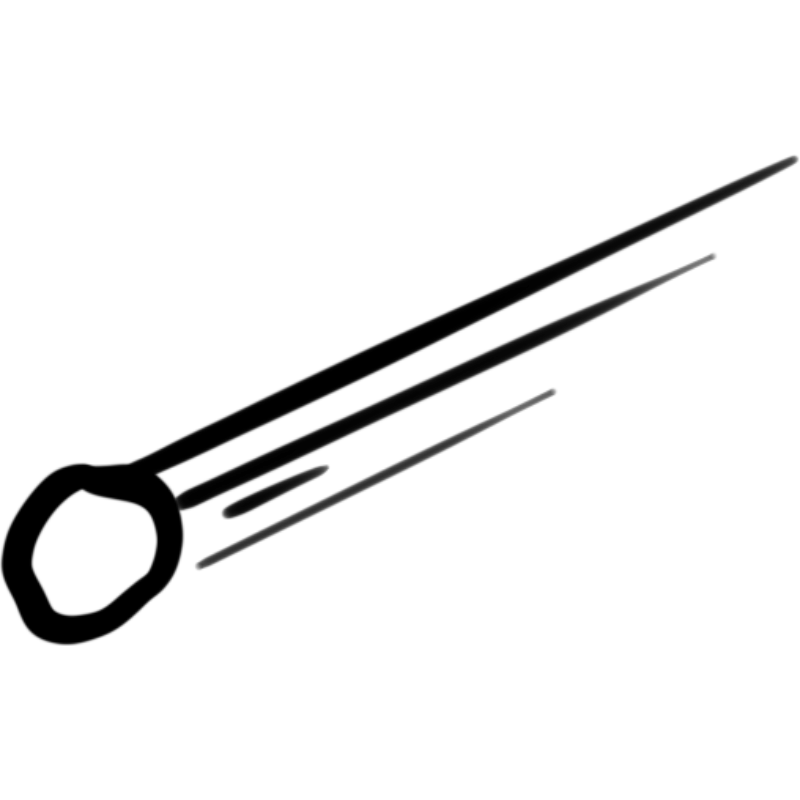
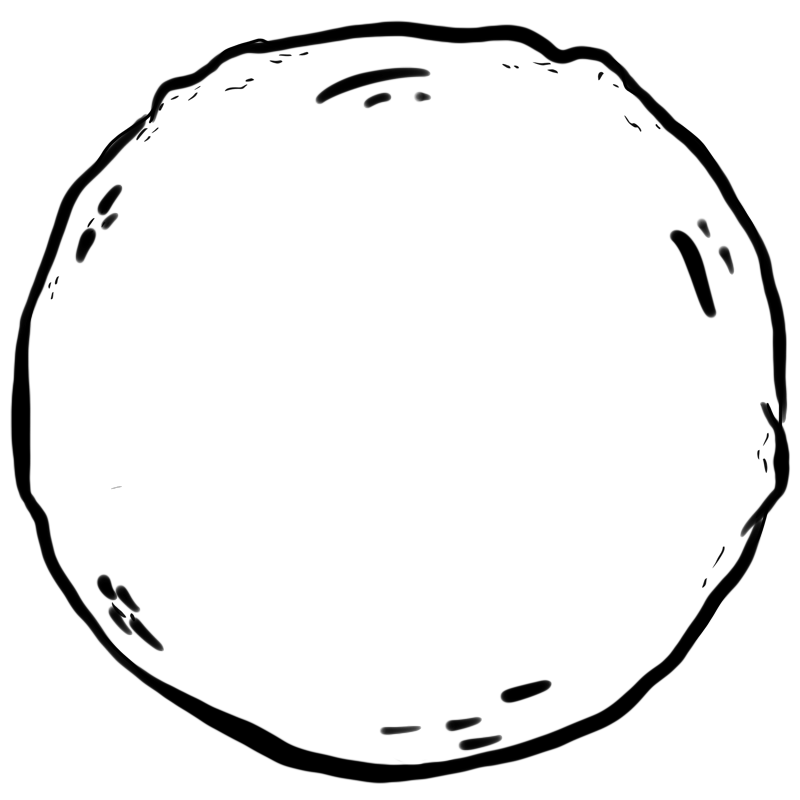
splash screen

Changed region(s): [[0.0, 0.0, 1.0, 1.0], [0.625, 0.8438, 0.6875, 0.875]]

diff --git a/components/SplashScreen.tsx b/components/SplashScreen.tsx
@@ -1,0 +1,115 @@
+'use client';
+
+import { motion, useReducedMotion } from 'framer-motion';
+import { useEffect, useState } from 'react';
+import styles from './SplashScreen.module.css';
+
+const LINE1 = "hi, i'm jonathan.";
+const LINE2 = 'welcome to my little world :)';
+const CHAR_INTERVAL_MS = 55;
+
+type Phase =
+  | 'initial-blink'
+  | 'typing-line1'
+  | 'pause-line1'
+  | 'typing-line2'
+  | 'pause-line2'
+  | 'wiping';
+
+const PAUSE_STEPS: Partial<Record<Phase, { ms: number; next: Phase }>> = {
+  'initial-blink': { ms: 600, next: 'typing-line1' },
+  'pause-line1':   { ms: 300, next: 'typing-line2' },
+  'pause-line2':   { ms: 700, next: 'wiping'       },
+};
+
+function useTypewriterSequence(skip: boolean) {
+  const [phase, setPhase] = useState<Phase>('initial-blink');
+  const [line1, setLine1] = useState('');
+  const [line2, setLine2] = useState('');
+
+  useEffect(() => {
+    if (skip) {
+      setLine1(LINE1);
+      setLine2(LINE2);
+      setPhase('wiping');
+      return;
+    }
+
+    const pause = PAUSE_STEPS[phase];
+    if (pause) {
+      const id = setTimeout(() => setPhase(pause.next), pause.ms);
+      return () => clearTimeout(id);
+    }
+
+    if (phase === 'typing-line1' || phase === 'typing-line2') {
+      const target = phase === 'typing-line1' ? LINE1 : LINE2;
+      const setter = phase === 'typing-line1' ? setLine1 : setLine2;
+      const next: Phase = phase === 'typing-line1' ? 'pause-line1' : 'pause-line2';
+
+      let i = 0;
+      const id = setInterval(() => {
+        i += 1;
+        setter(target.slice(0, i));
+        if (i >= target.length) {
+          clearInterval(id);
+          setPhase(next);
+        }
+      }, CHAR_INTERVAL_MS);
+      return () => clearInterval(id);
+    }
+  }, [phase, skip]);
+
+  // null = cursor hidden (during wipe); 1 or 2 = which line shows the cursor
+  const cursorLine: 1 | 2 | null =
+    phase === 'wiping' ? null
+    : phase === 'typing-line2' || phase === 'pause-line2' ? 2
+    : 1;
+
+  return { line1, line2, cursorLine };
+}
+
+const WIPE_TRANSITION = {
+  duration: 0.55,
+  ease: [0.4, 0, 0.2, 1] as const,
+};
+
+const WIPE_VARIANTS = {
+  visible: { y: '0%' },
+  hidden:  { y: '-100%', transition: WIPE_TRANSITION },
+};
+
+type SplashScreenProps = { onDone: () => void };
+
+export default function SplashScreen({ onDone }: SplashScreenProps) {
+  const skip = useReducedMotion() ?? false;
+  const { line1, line2, cursorLine } = useTypewriterSequence(skip);
+
+  // Derive animate target from cursorLine: once it goes null the wipe has fired
+  const isWiping = cursorLine === null;
+
+  return (
+    <motion.div
+      animate={isWiping ? 'hidden' : 'visible'}
+      className={styles.overlay}
+      initial="visible"
+      variants={skip ? undefined : WIPE_VARIANTS}
+      onAnimationComplete={(def) => {
+        if (def === 'hidden') onDone();
+      }}
+    >
+      <div className={styles.content}>
+        {([
+          { text: line1, line: 1 as const },
+          { text: line2, line: 2 as const },
+        ]).map(({ text, line }) => (
+          <span className={styles.line} key={line}>
+            <span className={styles.text}>
+              {text}
+              {cursorLine === line && <span className={styles.cursor} />}
+            </span>
+          </span>
+        ))}
+      </div>
+    </motion.div>
+  );
+}

diff --git a/components/SplashScreen.module.css b/components/SplashScreen.module.css
@@ -1,0 +1,69 @@
+.overlay {
+  position: fixed;
+  inset: 0;
+  z-index: 100;
+  display: flex;
+  align-items: flex-end;
+  background: #f5f5f5;
+  pointer-events: all;
+}
+
+.content {
+  padding: 0 0 14vh 10vw;
+  width: 100%;
+}
+
+.line {
+  display: block;
+}
+
+.line + .line {
+  margin-top: 1.4em;
+}
+
+.text {
+  font-family: 'Roboto Mono', monospace;
+  font-size: clamp(1.6rem, 3.2vw, 2.6rem);
+  font-weight: 400;
+  color: #3e3e3e;
+  letter-spacing: 0.01em;
+  line-height: 1.5;
+  white-space: nowrap;
+}
+
+/* Cursor lives inside .text so 1em = the text's own font size at every breakpoint */
+.cursor {
+  display: inline-block;
+  width: 2px;
+  height: 0.9em;
+  background: #3e3e3e;
+  vertical-align: text-bottom;
+  margin-left: 2px;
+  animation: blink 0.7s step-end infinite;
+}
+
+@keyframes blink {
+  0%, 100% { opacity: 1; }
+  50%       { opacity: 0; }
+}
+
+@media (max-width: 700px) {
+  .content {
+    padding: 0 0 10vh 5vw;
+  }
+
+  .text {
+    font-size: clamp(0.95rem, 4.5vw, 1.35rem);
+  }
+
+  .line + .line {
+    margin-top: 1.2em;
+  }
+}
+
+@media (prefers-reduced-motion: reduce) {
+  .cursor {
+    animation: none;
+    opacity: 1;
+  }
+}

diff --git a/app/page.tsx b/app/page.tsx
@@ -1,11 +1,21 @@
+'use client';
+
+import { useState } from 'react';
 import HomeScrollLock from '@/components/HomeScrollLock';
+import SplashScreen from '@/components/SplashScreen';
 import PlanetNav from '@/components/planet-nav/PlanetNav';
 
 export default function HomePage() {
+  const [splashDone, setSplashDone] = useState(false);
+
   return (
     <>
       <HomeScrollLock />
+      {/* PlanetNav always rendered underneath so it's ready when splash wipes away */}
       <PlanetNav />
+      {!splashDone && (
+        <SplashScreen onDone={() => setSplashDone(true)} />
+      )}
     </>
   );
 }

diff --git a/components/planet-nav/parallaxSkyConfig.ts b/components/planet-nav/parallaxSkyConfig.ts
@@ -24,13 +24,13 @@ export const SKY_ELEMENT_SIZE_PX: Record<SkyLayer, Record<SkyElementKind, number
   far: {
     'star-one': 9,
     'star-two': 12,
-    comet: 45,
+    comet: 30,
     asteroid: 36,
   },
   mid: {
     'star-one': 11,
     'star-two': 15,
-    comet: 57,
+    comet: 45,
     asteroid: 48,
   },
 };
@@ -47,8 +47,8 @@ const SKY_LAYER_COUNTS: Record<SkyLayer, Record<SkyElementKind, number>> = {
   mid: {
     'star-one': 4,
     'star-two': 7,
-    comet: 3,
-    asteroid: 3,
+    comet: 1,
+    asteroid: 2,
   },
 };
 